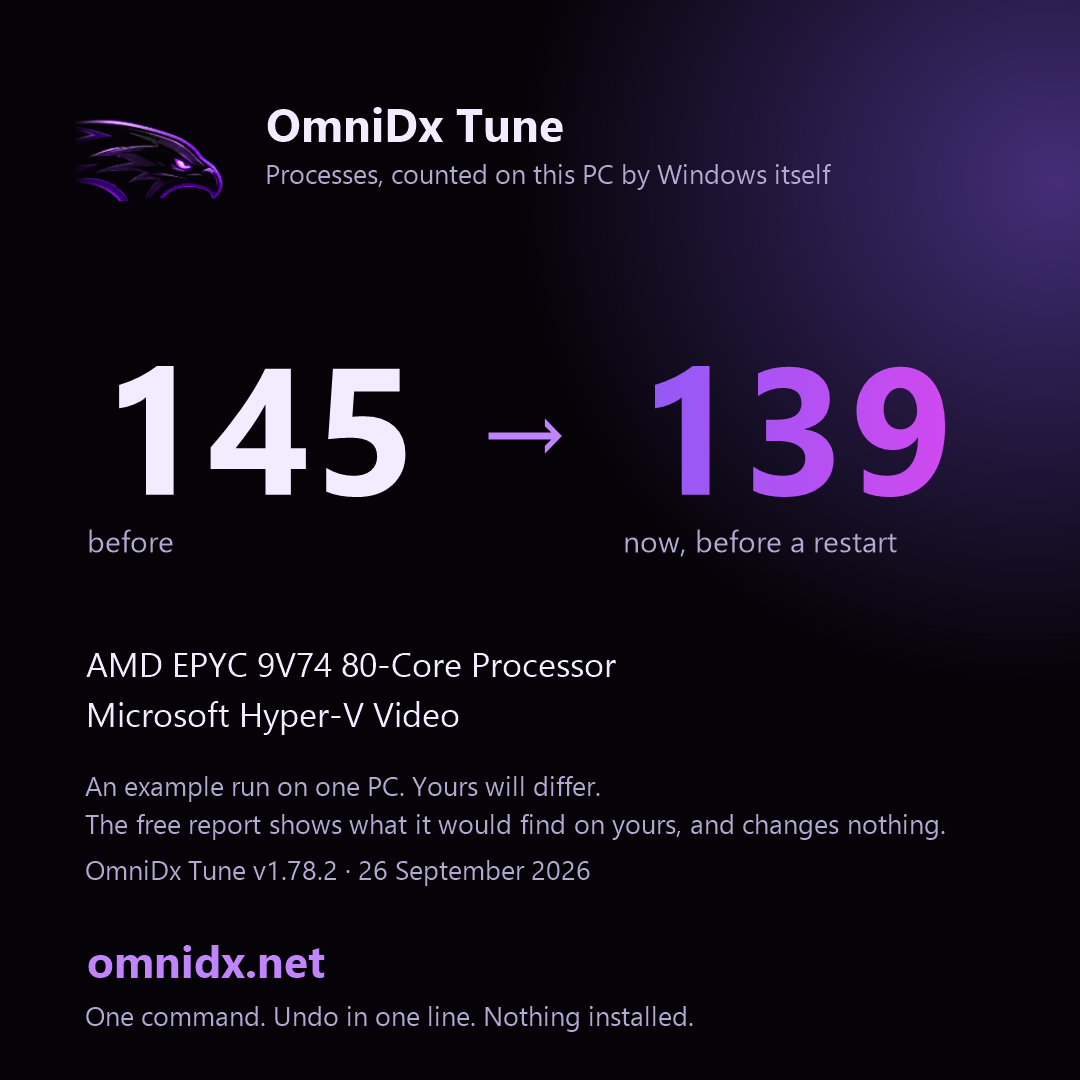
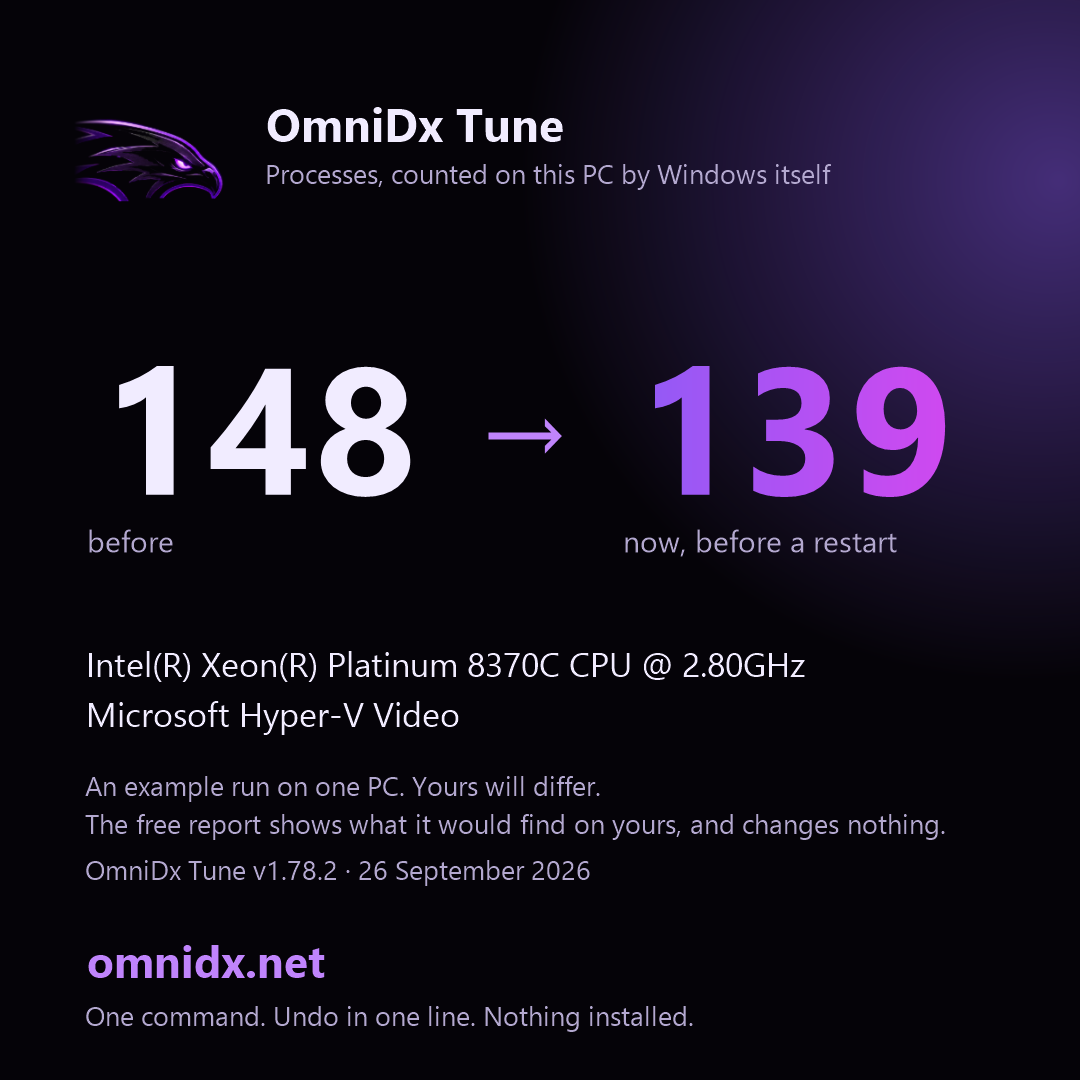
Windows check: the app window, the numbers, the log, and the script this run verified

Changed region(s): [[0.0917, 0.5806, 0.7333, 0.6417], [0.275, 0.3361, 0.3972, 0.4583]]

diff --git a/studio/assets/ci-report.html b/studio/assets/ci-report.html
@@ -1,5 +1,5 @@
 <!doctype html><html lang="en"><head><meta charset="utf-8"><meta name="viewport" content="width=device-width,initial-scale=1">
-<title>OmniDx Tune report - 2026-09-26_04-47-25</title>
+<title>OmniDx Tune report - 2026-09-26_08-22-51</title>
 <style>
 body{margin:0;background:#050308;color:#f1ecff;font:15px/1.6 -apple-system,'Segoe UI',Roboto,system-ui,sans-serif}
 main{max-width:860px;margin:0 auto;padding:36px 20px 80px}
@@ -18,138 +18,134 @@ details pre{font:12.5px/1.5 ui-monospace,Consolas,monospace;color:#b3a8cf;overfl
 .bios ul{list-style:none;padding-left:2px}.bios li{margin:8px 0;color:#f1ecff}.bios{background:#0e0a17;border:1px solid #2a1f45;border-radius:14px;padding:6px 18px}
 </style></head><body><main>
 <h1><img src="https://omnidx.net/studio/assets/icons/icon-192.png" alt="" width="44" height="44" style="vertical-align:middle;margin-right:10px" onerror="this.remove()">OmniDx Tune <span class="muted" style="font-size:16px">v1.78.2</span></h1>
-<p class="sub">Saturday, September 26, 2026 4:48 AM &middot; AMD EPYC 9V74 80-Core Processor &middot; Microsoft Hyper-V Video &middot; 16 GB &middot; Microsoft Corporation Virtual Machine</p>
-<div class="big"><div><b>145</b><span>processes before</span></div><div><b>139</b><span>now, before a restart</span></div><div><b>~75</b><span>target for this PC after a restart</span></div></div>
+<p class="sub">Saturday, September 26, 2026 8:24 AM &middot; Intel(R) Xeon(R) Platinum 8370C CPU @ 2.80GHz &middot; Microsoft Hyper-V Video &middot; 16 GB &middot; Microsoft Corporation Virtual Machine</p>
+<div class="big"><div><b>148</b><span>processes before</span></div><div><b>139</b><span>now, before a restart</span></div><div><b>~75</b><span>target for this PC after a restart</span></div></div>
 <p class='muted'>The card, for posting (the same numbers, on one picture): <code>ci-card.png</code></p><img src='ci-card.png' alt='Before and after, on a card' style='max-width:340px;width:100%;border-radius:14px;border:1px solid #2a1f45'>
 <p class="muted">Many of the "now" processes are only waiting to be stopped. The number after a restart is the one that counts; <code>C:\OmniDx\after-restart.txt</code> gets it at your next sign-in. Kept cut: a task at each sign-in puts back what a Windows update turns on; undo removes it.</p>
 <h2>Next steps</h2><ol><li>Restart. The services told to stop are still unwinding until you do, and the after-restart count lands in C:\OmniDx\after-restart.txt at your next sign-in, with the boot time of that start next to the one from before the tune.</li><li>BIOS: items 1 to 3 (memory profile, Re-Size BAR, CSM). Ten minutes, and the memory profile alone is the biggest free gain any PC has.</li><li>GPU control panel: low latency mode, power management and V-Sync, from the list below. Two minutes.</li><li>Launchers and overlays: the list below names the one or two settings in each that matter; the overlays are the usual cause of a stutter that &quot;came from nowhere&quot;.</li><li>Any time: $env:OMNIDX_MODE=&#39;status&#39;; irm omnidx.net/go.ps1 | iex shows what is still in place; undo is one line, and it is in this report.</li></ol>
-<h2>Before and after</h2><table><tr><th></th><th>Before</th><th>Now</th></tr><tr><td>Processes</td><td>145</td><td>139</td></tr><tr><td>Threads</td><td>1289</td><td>1422</td></tr><tr><td>Handles</td><td>48413</td><td>47394</td></tr><tr><td>Memory in use</td><td>3487 MB</td><td>3570 MB</td></tr><tr><td>Idle CPU</td><td>0.6%</td><td>1.1%</td></tr><tr><td>DPC time</td><td>0%</td><td>0%</td></tr></table>
+<h2>Before and after</h2><table><tr><th></th><th>Before</th><th>Now</th></tr><tr><td>Processes</td><td>148</td><td>139</td></tr><tr><td>Threads</td><td>1500</td><td>1436</td></tr><tr><td>Handles</td><td>49775</td><td>47201</td></tr><tr><td>Memory in use</td><td>2834 MB</td><td>2903 MB</td></tr><tr><td>Idle CPU</td><td>1.6%</td><td>2.2%</td></tr><tr><td>DPC time</td><td>0%</td><td>0%</td></tr></table>
 <h2>Gone, by name</h2><p class='muted'>Running before, not running now: spoolsv</p>
-<details><summary>Every process, before (58 names)</summary><pre>svchost                                  x76     1,099 MB
-conhost                                  x4         34 MB
-notepad                                  x3         88 MB
-taskhostw                                x3         79 MB
-WmiPrvSE                                 x3         59 MB
+<details><summary>Every process, before (56 names)</summary><pre>svchost                                  x81     1,193 MB
+conhost                                  x4         33 MB
+notepad                                  x3         89 MB
+taskhostw                                x3         63 MB
+WmiPrvSE                                 x3         62 MB
 csrss                                    x2         14 MB
 fontdrvhost                              x2         11 MB
 SMSvcHost                                x2         50 MB
-AzureArcSysTray                          x1         20 MB
-backgroundTaskHost                       x1         15 MB
-ctfmon                                   x1         31 MB
+AzureArcSysTray                          x1         19 MB
+ctfmon                                   x1         26 MB
 DefenderSessionHelper                    x1          6 MB
 dockerd                                  x1         46 MB
 dwm                                      x1         78 MB
-explorer                                 x1        159 MB
-hosted-compute-agent                     x1         18 MB
+explorer                                 x1        160 MB
+hosted-compute-agent                     x1         21 MB
 Idle                                     x1          0 MB
 LsaIso                                   x1          4 MB
 lsass                                    x1         31 MB
 MpDefenderCoreService                    x1         29 MB
 mqsvc                                    x1         19 MB
 msdtc                                    x1         14 MB
-MsMpEng                                  x1         75 MB
-node                                     x1         43 MB
+MsMpEng                                  x1        162 MB
+node                                     x1         40 MB
 OpenConsole                              x1         14 MB
 powershell                               x1        167 MB
-provjobd.exe585297536                    x1         20 MB
-Registry                                 x1        116 MB
-Runner.Listener                          x1         72 MB
-Runner.Worker                            x1        101 MB
-RuntimeBroker                            x1         51 MB
-SearchHost                               x1        110 MB
+provjobd.exe3311307104                   x1         36 MB
+Registry                                 x1         80 MB
+Runner.Listener                          x1         74 MB
+Runner.Worker                            x1        110 MB
+RuntimeBroker                            x1         47 MB
+SearchHost                               x1        109 MB
 Secure System                            x1         52 MB
-SecurityHealthService                    x1         30 MB
+SecurityHealthService                    x1         12 MB
 ServiceFabricLocalClusterManager         x1         36 MB
-services                                 x1         12 MB
+services                                 x1         11 MB
 ShellHost                                x1         42 MB
 sihost                                   x1         43 MB
+smartscreen                              x1         12 MB
 smss                                     x1          2 MB
 spoolsv                                  x1         22 MB
 sqlwriter                                x1         11 MB
 sshd                                     x1          9 MB
 StartMenuExperienceHost                  x1        130 MB
 System                                   x1          0 MB
-SystemPropertiesPerformance              x1         14 MB
 TiWorker                                 x1         30 MB
 TrustedInstaller                         x1         10 MB
 UserOOBEBroker                           x1         11 MB
 vmcompute                                x1         11 MB
-vmms                                     x1         35 MB
-WaAppAgent                               x1         85 MB
-WaSecAgentProv                           x1          9 MB
+vmms                                     x1         33 MB
+WaAppAgent                               x1         87 MB
+WaSecAgentProv                           x1          5 MB
 WindowsAzureGuestAgent                   x1         70 MB
-WindowsTerminal                          x1         84 MB
+WindowsTerminal                          x1         85 MB
 wininit                                  x1          9 MB
 winlogon                                 x1         13 MB
-wslservice                               x1         27 MB
-WUDFHost                                 x1         12 MB</pre></details><details><summary>Every process, after (58 names)</summary><pre>svchost                                  x70     1,058 MB
-conhost                                  x4         34 MB
+wslservice                               x1         27 MB</pre></details><details><summary>Every process, after (56 names)</summary><pre>svchost                                  x72     1,083 MB
+conhost                                  x4         33 MB
 notepad                                  x3         88 MB
-taskhostw                                x3         79 MB
-WmiPrvSE                                 x3         66 MB
+taskhostw                                x3         57 MB
+WmiPrvSE                                 x3         69 MB
 csrss                                    x2         14 MB
 fontdrvhost                              x2         11 MB
 SMSvcHost                                x2         50 MB
-AzureArcSysTray                          x1         20 MB
-backgroundTaskHost                       x1         15 MB
-ctfmon                                   x1         31 MB
+AzureArcSysTray                          x1         19 MB
+ctfmon                                   x1         26 MB
 DefenderSessionHelper                    x1          6 MB
 dllhost                                  x1         13 MB
 dockerd                                  x1         46 MB
 dwm                                      x1         78 MB
-explorer                                 x1        159 MB
-hosted-compute-agent                     x1         17 MB
+explorer                                 x1        160 MB
+hosted-compute-agent                     x1         20 MB
 Idle                                     x1          0 MB
 LsaIso                                   x1          4 MB
 lsass                                    x1         31 MB
 MpDefenderCoreService                    x1         29 MB
 mqsvc                                    x1         19 MB
 msdtc                                    x1         14 MB
-MsMpEng                                  x1         75 MB
-node                                     x1         41 MB
+MsMpEng                                  x1        162 MB
+node                                     x1         39 MB
 OpenConsole                              x1         14 MB
-powershell                               x1        214 MB
-provjobd.exe585297536                    x1         20 MB
-Registry                                 x1         64 MB
-Runner.Listener                          x1         70 MB
-Runner.Worker                            x1        100 MB
-RuntimeBroker                            x1         51 MB
-SearchHost                               x1        110 MB
+powershell                               x1        199 MB
+provjobd.exe3311307104                   x1         35 MB
+Registry                                 x1         65 MB
+Runner.Listener                          x1         67 MB
+Runner.Worker                            x1        104 MB
+RuntimeBroker                            x1         47 MB
+SearchHost                               x1        109 MB
 Secure System                            x1         52 MB
-SecurityHealthService                    x1         30 MB
+SecurityHealthService                    x1         12 MB
 ServiceFabricLocalClusterManager         x1         36 MB
-services                                 x1         12 MB
+services                                 x1         11 MB
 ShellHost                                x1         42 MB
 sihost                                   x1         43 MB
+smartscreen                              x1         12 MB
 smss                                     x1          2 MB
 sqlwriter                                x1         11 MB
 sshd                                     x1          9 MB
 StartMenuExperienceHost                  x1        131 MB
 System                                   x1          0 MB
-SystemPropertiesPerformance              x1         14 MB
-TiWorker                                 x1         41 MB
+TiWorker                                 x1         39 MB
 TrustedInstaller                         x1         10 MB
 UserOOBEBroker                           x1         11 MB
 vmcompute                                x1         11 MB
-vmms                                     x1         35 MB
-WaAppAgent                               x1         86 MB
-WaSecAgentProv                           x1          8 MB
+vmms                                     x1         33 MB
+WaAppAgent                               x1         87 MB
+WaSecAgentProv                           x1          5 MB
 WindowsAzureGuestAgent                   x1         70 MB
-WindowsTerminal                          x1         84 MB
+WindowsTerminal                          x1         85 MB
 wininit                                  x1          9 MB
 winlogon                                 x1         13 MB
-wslservice                               x1         28 MB
-WUDFHost                                 x1         12 MB</pre></details>
+wslservice                               x1         27 MB</pre></details>
 <h2>Kept, and why</h2><ul><li>Defender, the firewall, Windows Update, audio, networking: always</li><li>Themes: Windows 10 falls back to the classic look without it</li><li>vmicguestinterface: this is a virtual machine</li><li>vmicheartbeat: this is a virtual machine</li><li>vmickvpexchange: this is a virtual machine</li><li>vmicrdv: this is a virtual machine</li><li>vmicshutdown: this is a virtual machine</li><li>vmictimesync: this is a virtual machine</li><li>vmicvmsession: this is a virtual machine</li><li>vmicvss: this is a virtual machine</li><li>XblAuthManager: Game Pass, the Xbox app or Minecraft is installed</li></ul>
 <h2>Warnings (3)</h2><div class="warn"><ul><li>The GPU driver dates from Jun 2006. A current driver is worth more than most tweaks.</li><li>This looks like a virtual machine. The tune will run, but the numbers mean little here.</li><li>Could not make a restore point (This functionality is not supported on this operating system.). The undo script still records everything.</li></ul></div>
-<h2>BIOS checklist for Microsoft Corporation Virtual Machine</h2><div class="bios"><ul><li>How to get in: restart, then press Del or F2 while the logo shows.</li><li>Where things are: the Advanced / Overclocking pages for memory, the PCI or Chipset page for Above 4G / Re-Size BAR, the Boot page for CSM, the Security page for TPM and Secure Boot.</li><li>1. Memory profile: enable EXPO (or DOCP / A-XMP on older boards). Your RAM is running at the slow default until you do; this is the single biggest free gain on any PC. Pick the profile matching the speed printed on the sticks.</li><li>2. Re-Size BAR / Smart Access Memory: set Above 4G Decoding = Enabled, then Re-Size BAR Support = Auto/Enabled. Needs CSM off (next line). Worth 5-15% in many games on RTX 30/40/50 and RX 6000+.</li><li>3. CSM (Compatibility Support Module): Disabled. You already boot UEFI, so nothing depends on it, and Re-Size BAR needs it off.</li><li>4. Secure Boot: Enabled. Windows 11 and Vanguard expect it; on 10 it costs nothing. Set OS Type / Secure Boot Mode to Windows UEFI if asked.</li><li>5. TPM: not detected. Enable AMD fTPM (AMD) or Intel PTT (Intel) under Security / Trusted Computing. VALORANT on Windows 11 will not run without it.</li><li>6. Precision Boost Overdrive: Enabled (or Advanced with the Curve Optimizer at a modest negative offset like -15 all-core if you know your cooler). Never a positive voltage offset.</li><li>7. Global C-states / package C-states: Auto is fine. Disabling them buys nothing measurable in games and raises idle heat.</li><li>8. Fast Boot: Enabled. Full Screen Logo / Boot Logo: Disabled (a second off every boot).</li><li>9. Fan curves: set the CPU fan to reach 100% by 80 C and the case fans to a steady ramp. Sustained boost needs airflow more than anything.</li><li>10. Onboard devices you do not use: serial port, Wi-Fi/Bluetooth if wired, onboard audio if you use USB audio, RGB controllers. Each one removed is an interrupt source gone.</li><li>11. HPET: leave at default. The &#39;disable HPET&#39; tweak is from 2013 and hurts more than it helps on modern Windows.</li><li>12. Virtualisation (SVM / VT-x): leave on if you use WSL, Docker, an emulator, or play VALORANT or on FACEIT (their anti-cheat needs it, with IOMMU); otherwise off saves a little scheduling overhead.</li><li>After saving: Windows will boot normally. If it does not (rare, usually CSM), go back in and re-enable the last thing you changed.</li><li>Do not update the BIOS unless the vendor&#39;s notes mention a fix for your exact problem; a failed flash is the one thing here that cannot be undone from Windows.</li></ul></div>
+<h2>BIOS checklist for Microsoft Corporation Virtual Machine</h2><div class="bios"><ul><li>How to get in: restart, then press Del or F2 while the logo shows.</li><li>Where things are: the Advanced / Overclocking pages for memory, the PCI or Chipset page for Above 4G / Re-Size BAR, the Boot page for CSM, the Security page for TPM and Secure Boot.</li><li>1. Memory profile: enable XMP. Your RAM is running at the slow default until you do; this is the single biggest free gain on any PC. Pick the profile matching the speed printed on the sticks.</li><li>2. Re-Size BAR / Smart Access Memory: set Above 4G Decoding = Enabled, then Re-Size BAR Support = Auto/Enabled. Needs CSM off (next line). Worth 5-15% in many games on RTX 30/40/50 and RX 6000+.</li><li>3. CSM (Compatibility Support Module): Disabled. You already boot UEFI, so nothing depends on it, and Re-Size BAR needs it off.</li><li>4. Secure Boot: Enabled. Windows 11 and Vanguard expect it; on 10 it costs nothing. Set OS Type / Secure Boot Mode to Windows UEFI if asked.</li><li>5. TPM: not detected. Enable AMD fTPM (AMD) or Intel PTT (Intel) under Security / Trusted Computing. VALORANT on Windows 11 will not run without it.</li><li>6. Intel: leave MultiCore Enhancement at Auto; set the long and short power limits (PL1/PL2) to the chip&#39;s rated maximum if the board runs them lower. Do not touch voltages.</li><li>7. Global C-states / package C-states: Auto is fine. Disabling them buys nothing measurable in games and raises idle heat.</li><li>8. Fast Boot: Enabled. Full Screen Logo / Boot Logo: Disabled (a second off every boot).</li><li>9. Fan curves: set the CPU fan to reach 100% by 80 C and the case fans to a steady ramp. Sustained boost needs airflow more than anything.</li><li>10. Onboard devices you do not use: serial port, Wi-Fi/Bluetooth if wired, onboard audio if you use USB audio, RGB controllers. Each one removed is an interrupt source gone.</li><li>11. HPET: leave at default. The &#39;disable HPET&#39; tweak is from 2013 and hurts more than it helps on modern Windows.</li><li>12. Virtualisation (SVM / VT-x): leave on if you use WSL, Docker, an emulator, or play VALORANT or on FACEIT (their anti-cheat needs it, with IOMMU); otherwise off saves a little scheduling overhead.</li><li>After saving: Windows will boot normally. If it does not (rare, usually CSM), go back in and re-enable the last thing you changed.</li><li>Do not update the BIOS unless the vendor&#39;s notes mention a fix for your exact problem; a failed flash is the one thing here that cannot be undone from Windows.</li></ul></div>
 <h2>GPU control panel</h2><ul><li>GPU not identified; use the vendor control panel to set low-latency mode on, power management to maximum performance and V-Sync off.</li></ul>
-<h2>Undervolt, not overclock, and a frame cap</h2><ul><li>GPU: the vendor tool has a frame limiter; set it three below the refresh rate with adaptive sync on.</li><li>CPU undervolt (Ryzen): BIOS &gt; PBO &gt; Curve Optimizer &gt; all cores, negative 15 to start (negative 30 on most 7000 and 9000 chips), then an hour of a game and a stress test; one step back on any crash or reboot. Lower temperature, higher sustained boost, nothing else changes.</li><li>Never an overclock: it is more heat and more voltage for frames you cannot see, and it is the first thing a crash report points at.</li></ul>
+<h2>Undervolt, not overclock, and a frame cap</h2><ul><li>GPU: the vendor tool has a frame limiter; set it three below the refresh rate with adaptive sync on.</li><li>CPU (Intel): on 13th and 14th gen, install the latest BIOS first (the microcode that stops the degradation), and leave the voltage alone unless the board exposes an offset; on a K chip a small negative offset is the same idea as Ryzen&#39;s Curve Optimizer.</li><li>Never an overclock: it is more heat and more voltage for frames you cannot see, and it is the first thing a crash report points at.</li></ul>
 <h2>Launchers, overlays and helper apps</h2><ul><li>Xbox app: Settings &gt; General &gt; &quot;Auto-start&quot; off (the entry the tune switched off), &quot;Show notifications&quot; off. Game Pass games install under C:\XboxGames and are already in the CPU-priority list where the game is listed.</li></ul>
 <h2>Left by other tools</h2><p class="muted">The tune changes none of these; it names them, with the way back.</p><ul><li>Nothing found: no other tool has left Defender, Windows Update, SmartScreen, User Account Control or the CPU mitigations switched off on this PC.</li></ul>
 <h2>Per game</h2><p class='muted'>Not found on this PC (the same profile applies if you install them): Fortnite, VALORANT, Counter-Strike 2, Marvel Rivals, Apex Legends, Call of Duty (Warzone / MW), Overwatch 2, Rainbow Six Siege, Rocket League, Minecraft, Roblox, League of Legends, GTA V / Online, Rust, Escape from Tarkov, PUBG, The Finals, Dota 2, Battlefield 6, Deadlock, Delta Force, ARC Raiders, Helldivers 2, Warframe, Destiny 2, Halo Infinite, Dead by Daylight, Hunt: Showdown 1896, War Thunder, World of Warcraft, Squad, Battlefield 2042, EA Sports FC 26, NBA 2K26, Palworld, Path of Exile 2, Diablo IV, Monster Hunter Wilds, Elden Ring / Nightreign, Cyberpunk 2077, Baldur&#39;s Gate 3, Star Citizen, DayZ, Arma Reforger, Hell Let Loose, Genshin Impact, Ready or Not, Final Fantasy XIV, STALKER 2, Sea of Thieves</p>
-<h2>What was done</h2><h4>Safety first</h4><div class='did'>Registry and service list backed up to C:\OmniDx\backup\2026-09-26_04-47-25</div><div class='did'>undo.ps1 written to C:\OmniDx\undo</div><h4>Startup apps</h4><div class='did'>off: AzureArcSetup</div><div class='did'>off: Service Fabric Local Cluster Manager (Startup folder)</div><h4>Services</h4><div class='did'>dmwappushservice -&gt; disabled  (telemetry push)</div><div class='did'>WerSvc -&gt; disabled  (error reporting)</div><div class='did'>wercplsupport -&gt; disabled  (error reporting)</div><div class='did'>PcaSvc -&gt; disabled  (compatibility assistant)</div><div class='did'>lfsvc -&gt; disabled  (geolocation)</div><div class='did'>RemoteRegistry -&gt; disabled  (remote registry)</div><div class='did'>WMPNetworkSvc -&gt; disabled  (media sharing)</div><div class='did'>TrkWks -&gt; disabled  (link tracking)</div><div class='did'>WalletService -&gt; disabled  (wallet)</div><div class='did'>wisvc -&gt; disabled  (insider program)</div><div class='did'>SEMgrSvc -&gt; disabled  (payments and NFC)</div><div class='did'>TapiSrv -&gt; disabled  (telephony)</div><div class='did'>SharedAccess -&gt; disabled  (internet connection sharing)</div><div class='did'>edgeupdate -&gt; manual  (Edge updater (runs on demand))</div><div class='did'>WbioSrvc -&gt; disabled  (biometrics)</div><div class='did'>SysMain already disabled; left that way</div><div class='did'>WSearch already disabled; left that way</div><div class='did'>Spooler -&gt; disabled  (print spooler)</div><div class='did'>bthserv -&gt; disabled  (bluetooth)</div><div class='did'>WlanSvc -&gt; disabled  (wi-fi)</div><div class='did'>CDPSvc -&gt; manual  (connected devices)</div><div class='did'>CDPUserSvc already disabled; left that way</div><div class='did'>OneSyncSvc already disabled; left that way</div><div class='did'>PimIndexMaintenanceSvc already disabled; left that way</div><div class='did'>UnistoreSvc already disabled; left that way</div><div class='did'>UserDataSvc already disabled; left that way</div><div class='did'>SSDPSRV already disabled; left that way</div><div class='did'>upnphost already disabled; left that way</div><div class='did'>DPS -&gt; manual  (diagnostic policy)</div><div class='did'>SCardSvr -&gt; disabled  (smart card)</div><div class='did'>ScDeviceEnum -&gt; disabled  (smart card)</div><div class='did'>CertPropSvc -&gt; disabled  (smart card)</div><div class='did'>iphlpsvc -&gt; manual  (ipv6 tunnels)</div><div class='did'>cbdhsvc -&gt; manual  (clipboard history)</div><div class='did'>WpnService -&gt; manual  (push notifications)</div><div class='did'>WpnUserService -&gt; manual  (push notifications)</div><div class='did'>SNMPTRAP -&gt; disabled  (SNMP traps)</div><div class='did'>workfolderssvc -&gt; disabled  (Work Folders sync)</div><h4>Scheduled tasks</h4><div class='did'>PcaPatchDbTask</div><div class='did'>CreateObjectTask</div><div class='did'>Device</div><div class='did'>Device User</div><div class='did'>LoginCheck</div><div class='did'>WindowsActionDialog</div><div class='did'>OobeDiscovery</div><div class='did'>Diagnostics</div><div class='did'>UsageDataFlushing</div><div class='did'>UsageDataReporting</div><div class='did'>Registration</div><div class='did'>IndexerAutomaticMaintenance</div><div class='did'>Storage Tiers Management Initialization</div><div class='did'>UPnPHostConfig</div><div class='did'>ResolutionHost</div><div class='did'>UpdateLibrary</div><div class='did'>Work Folders Logon Synchronization</div><div class='did'>Work Folders Maintenance Work</div><h4>Preinstalled apps</h4><div class='did'>Microsoft.WindowsFeedbackHub</div><h4>Debloat</h4><div class='did'>removed Steps Recorder (screenshots every click, retired by Microsoft)</div><div class='did'>removed the 2009 Windows Media Player (the Store one stays)</div><div class='did'>removed Math Input Panel</div><div class='did'>removed Internet Explorer 11</div><div class='did'>off: Work Folders (corporate sync)</div><div class='did'>Edge: shopping assistant, recommendations, Spotlight, feedback prompts and reporting off</div><div class='did'>Kept gone: consumer features, suggested apps, account nags and the &#39;finish setting up&#39; screen are off by policy</div><h4>Telemetry, background activity, the shell</h4><div class='did'>Telemetry, the advertising id, activity history, suggestions, Bing in Start, Recall and Edge&#39;s reporting off; background apps off; widgets, news, Copilot and Cortana off; Game DVR off, Game Mode on; the classic right-click menu on 11</div><h4>System tuning</h4><div class='did'>NTFS last-access stamps off</div><div class='did'>NTFS allowed more memory for its cache</div><div class='did'>Defender&#39;s scheduled scans already capped at 5% of the CPU, lower than the tune&#39;s 25%: left as it is</div><h4>The OmniDx power plan</h4><div class='did'>2 plan setting(s) this PC does not have were skipped.</div><div class='did'>OmniDx plan created and active: CPU 100/100, boost aggressive, energy preference on performance, no core parking, no throttle states on a desktop, PCIe, USB and Wi-Fi power saving off, no sleep on mains.</div><h4>Network</h4><div class='did'>TCP: autotuning normal, ECN and timestamps off, receive-side scaling on, segment coalescing off, CTCP.</div><div class='did'>Ethernet 4: Interrupt Moderation off</div><div class='did'>Ethernet 4: Nagle off, power saving off</div><div class='did'>Ethernet 3: Nagle off, power saving off</div><h4>Discord, Spotify, browsers</h4><div class='did'>Discord: hardware acceleration on; it still starts with Windows, as you chose</div><div class='did'>Spotify: hardware acceleration on, no auto-start, friend feed off</div><div class='did'>Chrome: no background mode, hardware acceleration on</div><div class='did'>Edge: no startup boost, no background mode, hardware acceleration on</div><h4>Game profiles</h4><div class='did'>No listed game found on the usual drives; the CPU-priority profiles are in place for when one is installed.</div><h4>Game settings files</h4><div class='did'>Fortnite: V-Sync off, motion blur off, shadows off, post-processing low</div><div class='did'>Apex Legends: V-Sync off, sun shadows off, spot shadows off</div><div class='did'>Rocket League: V-Sync off, motion blur off, dynamic shadows off, depth of field off</div><div class='did'>Minecraft (Java): V-Sync off</div><h4>Cleanup</h4><div class='did'>Temp files, the Windows Update download cache and the peer-to-peer update cache cleared: about 315 MB back.</div><h4>Keeping it cut</h4><div class='did'>Task &#39;OmniDx keep&#39; runs three minutes after sign-in, puts back whatever an update turned on, notes that start&#39;s boot time and writes card-after-restart.png with that start&#39;s count. Log: C:\OmniDx\keep-log.txt. Undo removes it.</div>
-<h2>Undo</h2><p>Administrator PowerShell: <code>powershell -ExecutionPolicy Bypass -File C:\OmniDx\undo\undo.ps1</code><br>No restore point was made on this run (see the warnings); the undo script is the way back.<br>Changes recorded in <code>C:\OmniDx\undo\changes-2026-09-26_04-47-25.json</code>.</p>
+<h2>What was done</h2><h4>Safety first</h4><div class='did'>Registry and service list backed up to C:\OmniDx\backup\2026-09-26_08-22-51</div><div class='did'>undo.ps1 written to C:\OmniDx\undo</div><h4>Startup apps</h4><div class='did'>off: AzureArcSetup</div><div class='did'>off: Service Fabric Local Cluster Manager (Startup folder)</div><h4>Services</h4><div class='did'>dmwappushservice -&gt; disabled  (telemetry push)</div><div class='did'>WerSvc -&gt; disabled  (error reporting)</div><div class='did'>wercplsupport -&gt; disabled  (error reporting)</div><div class='did'>PcaSvc -&gt; disabled  (compatibility assistant)</div><div class='did'>lfsvc -&gt; disabled  (geolocation)</div><div class='did'>RemoteRegistry -&gt; disabled  (remote registry)</div><div class='did'>WMPNetworkSvc -&gt; disabled  (media sharing)</div><div class='did'>TrkWks -&gt; disabled  (link tracking)</div><div class='did'>WalletService -&gt; disabled  (wallet)</div><div class='did'>wisvc -&gt; disabled  (insider program)</div><div class='did'>SEMgrSvc -&gt; disabled  (payments and NFC)</div><div class='did'>TapiSrv -&gt; disabled  (telephony)</div><div class='did'>SharedAccess -&gt; disabled  (internet connection sharing)</div><div class='did'>edgeupdate -&gt; manual  (Edge updater (runs on demand))</div><div class='did'>WbioSrvc -&gt; disabled  (biometrics)</div><div class='did'>SysMain already disabled; left that way</div><div class='did'>WSearch already disabled; left that way</div><div class='did'>Spooler -&gt; disabled  (print spooler)</div><div class='did'>bthserv -&gt; disabled  (bluetooth)</div><div class='did'>WlanSvc -&gt; disabled  (wi-fi)</div><div class='did'>CDPSvc -&gt; manual  (connected devices)</div><div class='did'>CDPUserSvc already disabled; left that way</div><div class='did'>OneSyncSvc already disabled; left that way</div><div class='did'>PimIndexMaintenanceSvc already disabled; left that way</div><div class='did'>UnistoreSvc already disabled; left that way</div><div class='did'>UserDataSvc already disabled; left that way</div><div class='did'>SSDPSRV already disabled; left that way</div><div class='did'>upnphost already disabled; left that way</div><div class='did'>DPS -&gt; manual  (diagnostic policy)</div><div class='did'>SCardSvr -&gt; disabled  (smart card)</div><div class='did'>ScDeviceEnum -&gt; disabled  (smart card)</div><div class='did'>CertPropSvc -&gt; disabled  (smart card)</div><div class='did'>iphlpsvc -&gt; manual  (ipv6 tunnels)</div><div class='did'>cbdhsvc -&gt; manual  (clipboard history)</div><div class='did'>WpnService -&gt; manual  (push notifications)</div><div class='did'>WpnUserService -&gt; manual  (push notifications)</div><div class='did'>SNMPTRAP -&gt; disabled  (SNMP traps)</div><div class='did'>workfolderssvc -&gt; disabled  (Work Folders sync)</div><h4>Scheduled tasks</h4><div class='did'>PcaPatchDbTask</div><div class='did'>CreateObjectTask</div><div class='did'>Device</div><div class='did'>Device User</div><div class='did'>LoginCheck</div><div class='did'>WindowsActionDialog</div><div class='did'>OobeDiscovery</div><div class='did'>Diagnostics</div><div class='did'>UsageDataFlushing</div><div class='did'>UsageDataReporting</div><div class='did'>Registration</div><div class='did'>IndexerAutomaticMaintenance</div><div class='did'>Storage Tiers Management Initialization</div><div class='did'>UPnPHostConfig</div><div class='did'>ResolutionHost</div><div class='did'>UpdateLibrary</div><div class='did'>Work Folders Logon Synchronization</div><div class='did'>Work Folders Maintenance Work</div><h4>Preinstalled apps</h4><div class='did'>Microsoft.WindowsFeedbackHub</div><h4>Debloat</h4><div class='did'>removed Steps Recorder (screenshots every click, retired by Microsoft)</div><div class='did'>removed the 2009 Windows Media Player (the Store one stays)</div><div class='did'>removed Math Input Panel</div><div class='did'>removed Internet Explorer 11</div><div class='did'>off: Work Folders (corporate sync)</div><div class='did'>Edge: shopping assistant, recommendations, Spotlight, feedback prompts and reporting off</div><div class='did'>Kept gone: consumer features, suggested apps, account nags and the &#39;finish setting up&#39; screen are off by policy</div><h4>Telemetry, background activity, the shell</h4><div class='did'>Telemetry, the advertising id, activity history, suggestions, Bing in Start, Recall and Edge&#39;s reporting off; background apps off; widgets, news, Copilot and Cortana off; Game DVR off, Game Mode on; the classic right-click menu on 11</div><h4>System tuning</h4><div class='did'>NTFS last-access stamps off</div><div class='did'>NTFS allowed more memory for its cache</div><div class='did'>Defender&#39;s scheduled scans already capped at 5% of the CPU, lower than the tune&#39;s 25%: left as it is</div><h4>The OmniDx power plan</h4><div class='did'>2 plan setting(s) this PC does not have were skipped.</div><div class='did'>OmniDx plan created and active: CPU 100/100, boost aggressive, energy preference on performance, no core parking, no throttle states on a desktop, PCIe, USB and Wi-Fi power saving off, no sleep on mains.</div><h4>Network</h4><div class='did'>TCP: autotuning normal, ECN and timestamps off, receive-side scaling on, segment coalescing off, CTCP.</div><div class='did'>Ethernet 3: Nagle off, power saving off</div><div class='did'>Ethernet 4: Interrupt Moderation off</div><div class='did'>Ethernet 4: Nagle off, power saving off</div><h4>Discord, Spotify, browsers</h4><div class='did'>Discord: hardware acceleration on; it still starts with Windows, as you chose</div><div class='did'>Spotify: hardware acceleration on, no auto-start, friend feed off</div><div class='did'>Chrome: no background mode, hardware acceleration on</div><div class='did'>Edge: no startup boost, no background mode, hardware acceleration on</div><h4>Game profiles</h4><div class='did'>No listed game found on the usual drives; the CPU-priority profiles are in place for when one is installed.</div><h4>Game settings files</h4><div class='did'>Fortnite: V-Sync off, motion blur off, shadows off, post-processing low</div><div class='did'>Apex Legends: V-Sync off, sun shadows off, spot shadows off</div><div class='did'>Rocket League: V-Sync off, motion blur off, dynamic shadows off, depth of field off</div><div class='did'>Minecraft (Java): V-Sync off</div><h4>Cleanup</h4><div class='did'>Temp files, the Windows Update download cache and the peer-to-peer update cache cleared: about 304 MB back.</div><h4>Keeping it cut</h4><div class='did'>Task &#39;OmniDx keep&#39; runs three minutes after sign-in, puts back whatever an update turned on, notes that start&#39;s boot time and writes card-after-restart.png with that start&#39;s count. Log: C:\OmniDx\keep-log.txt. Undo removes it.</div>
+<h2>Undo</h2><p>Administrator PowerShell: <code>powershell -ExecutionPolicy Bypass -File C:\OmniDx\undo\undo.ps1</code><br>No restore point was made on this run (see the warnings); the undo script is the way back.<br>Changes recorded in <code>C:\OmniDx\undo\changes-2026-09-26_08-22-51.json</code>.</p>
 <h2>Status, any time</h2><p>What is still in place, what an update put back, the keep task and the after-restart count: <code>$env:OMNIDX_MODE='status'; irm omnidx.net/go.ps1 | iex</code><br><span class="muted">README.txt in C:\OmniDx says what each file there is.</span></p>
 <p class="muted" style="margin-top:40px">omnidx.net &middot; one payment, one PC, undo in one line.</p>
 </main></body></html>
